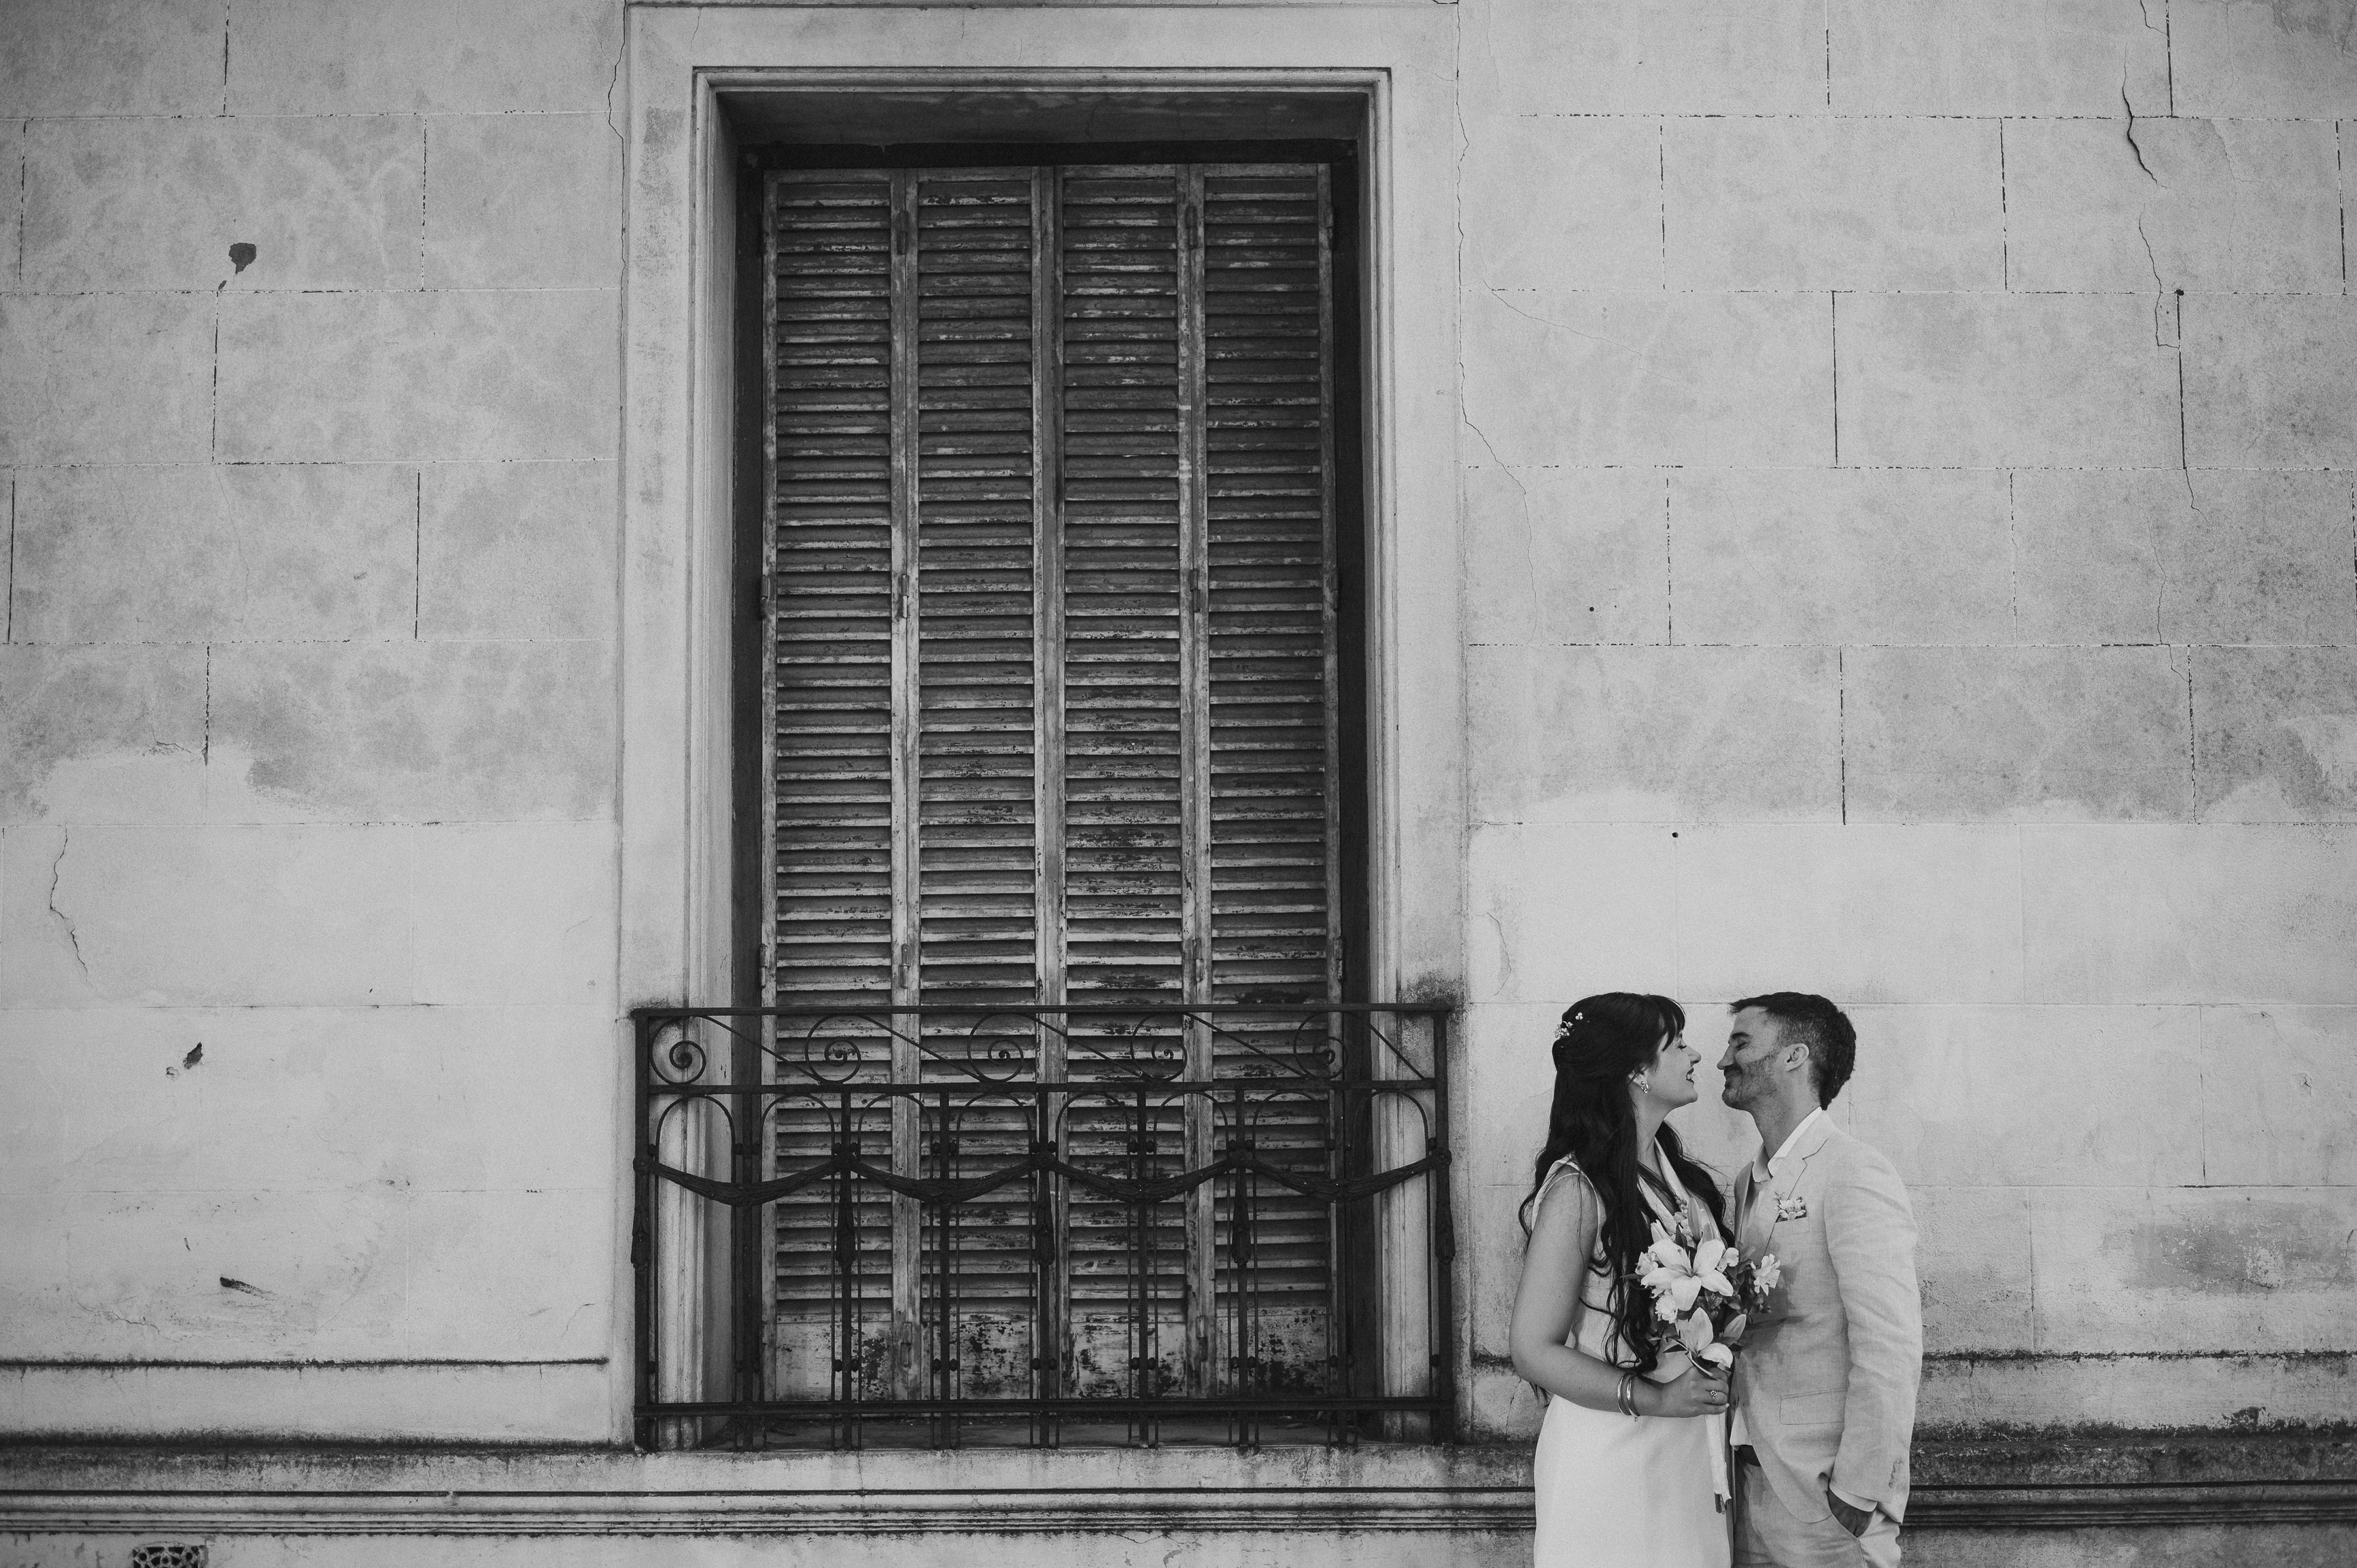
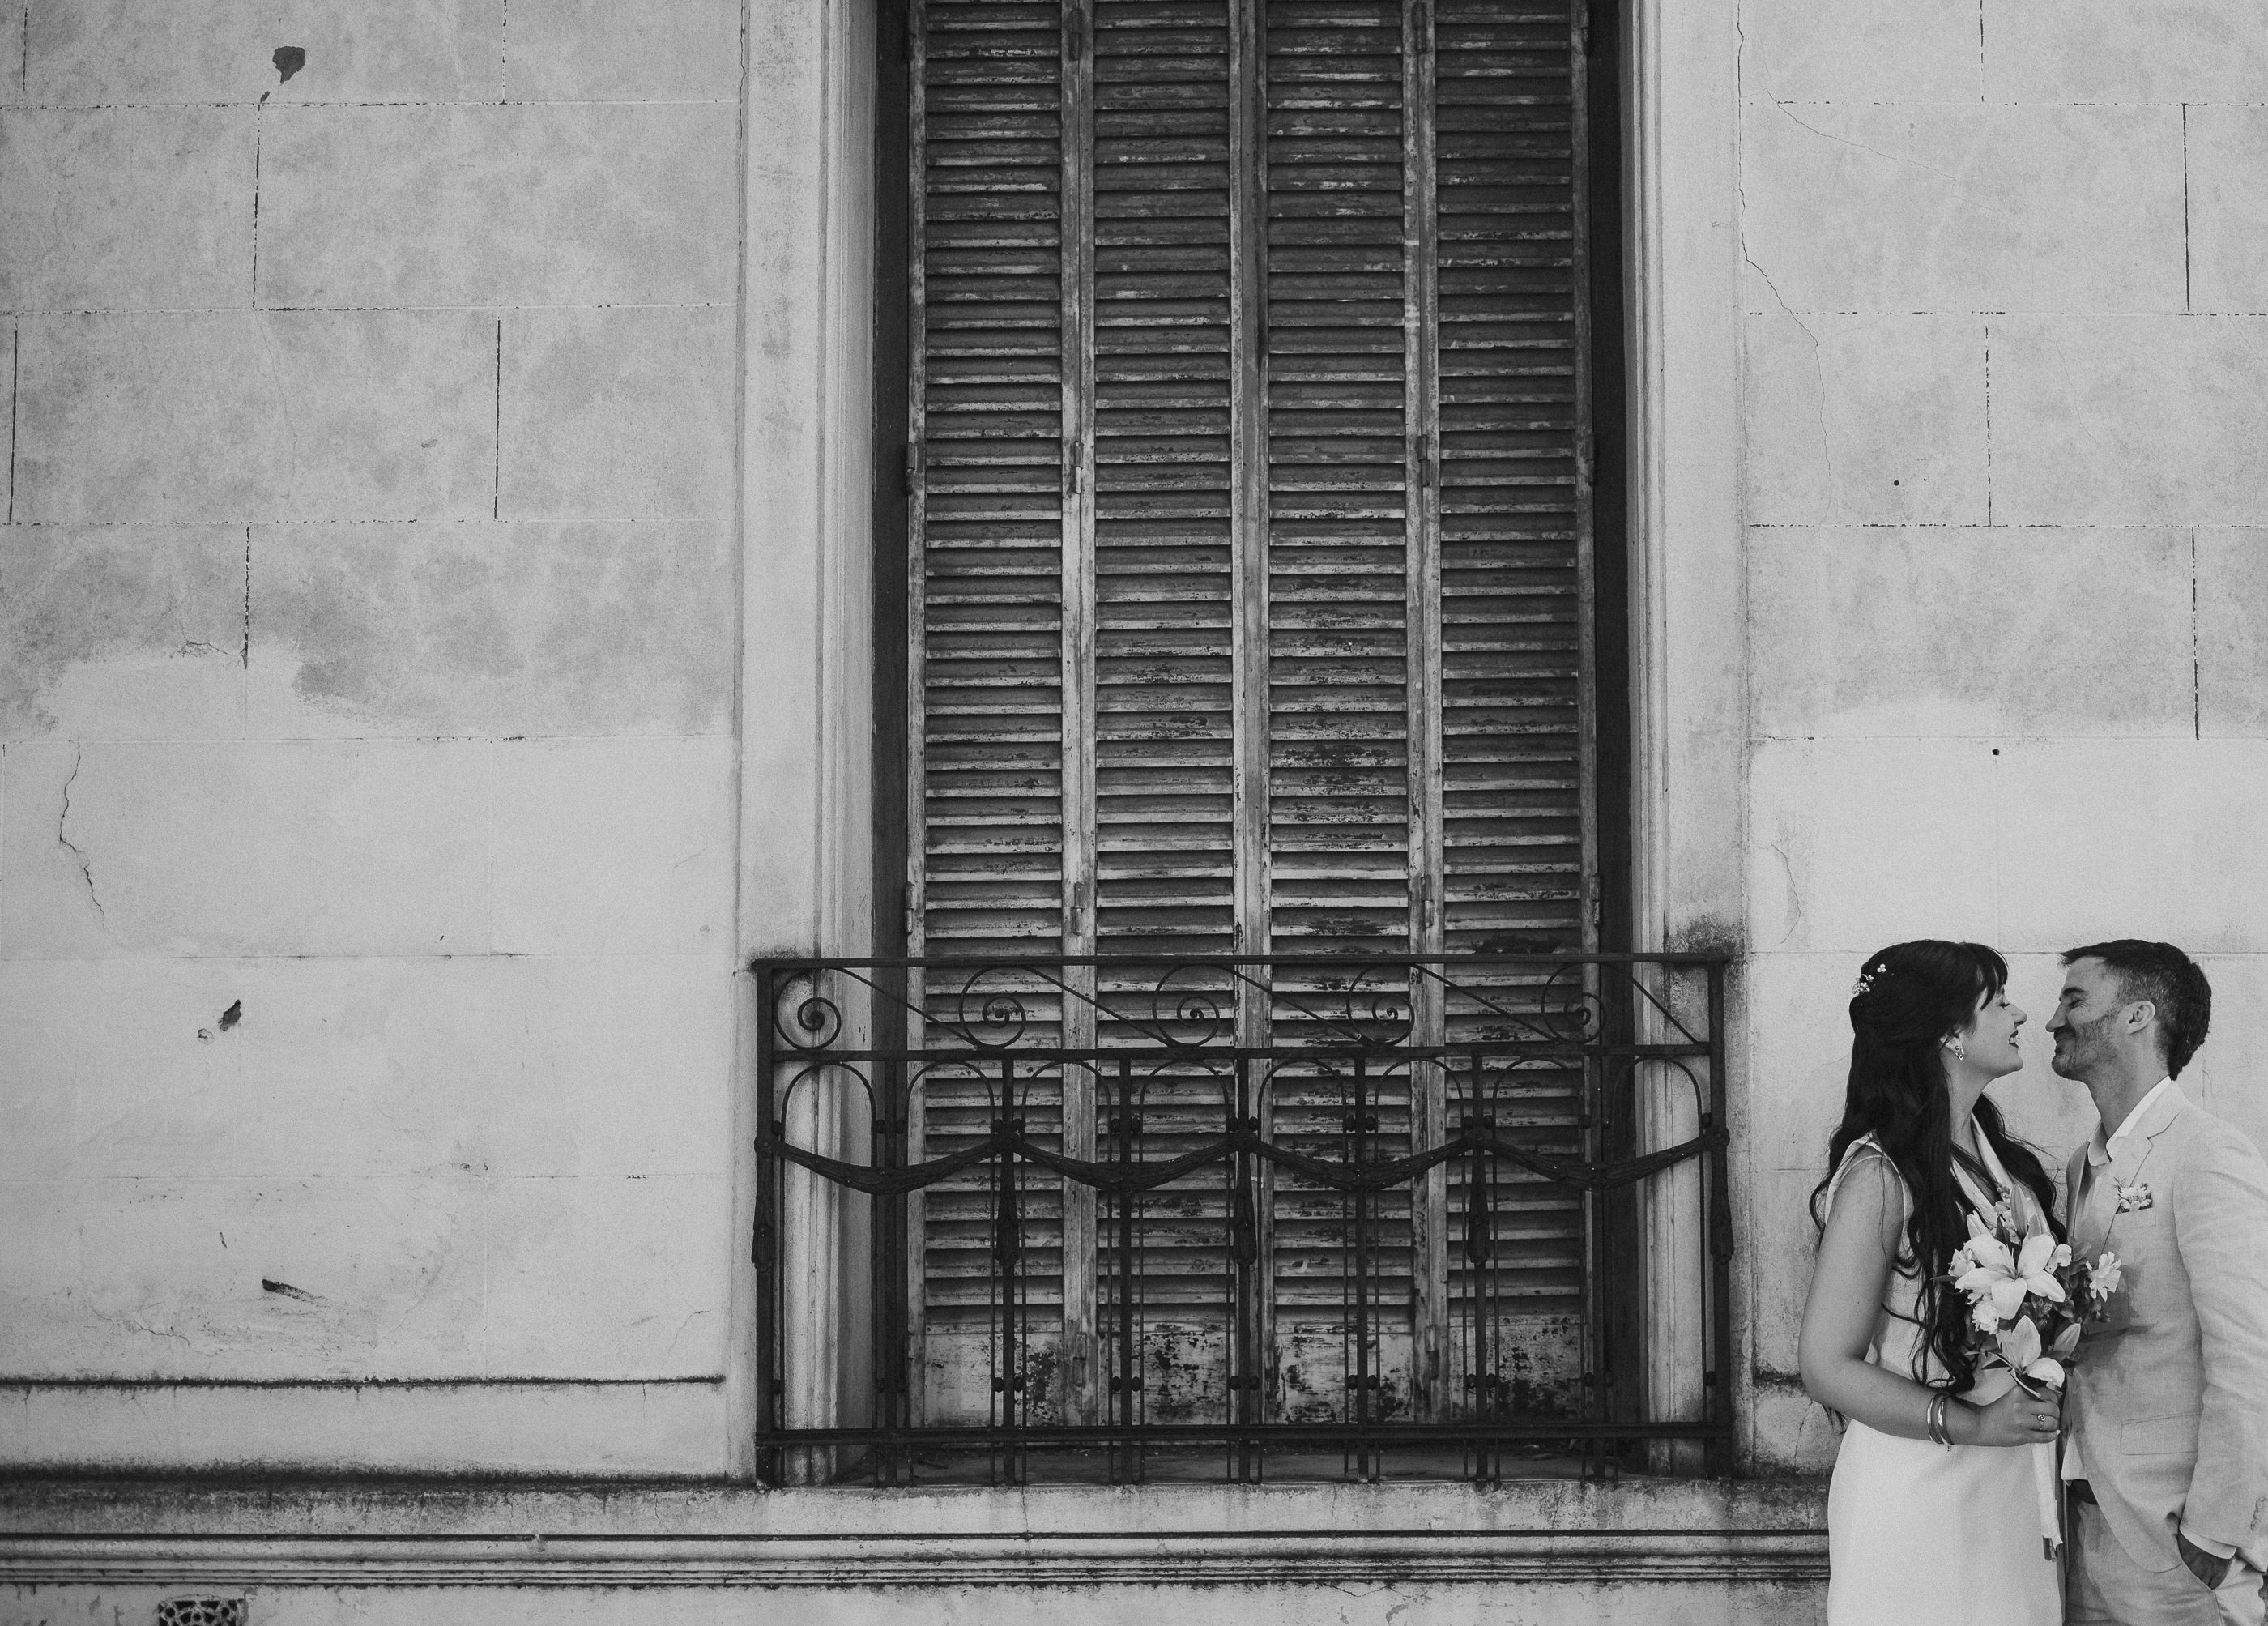
Add files via upload

diff --git a/style.css b/style.css
@@ -129,7 +129,7 @@ p { line-height: 1.7; color: var(--brown-mid); margin: 0 0 10px; }
   justify-content: center;
   text-align: center;
   color: white;
-  background: url('165.jpg') 65% 100% / cover no-repeat;
+  background: url('165.jpg') center 60% / cover no-repeat;
   overflow: hidden;
 }
 